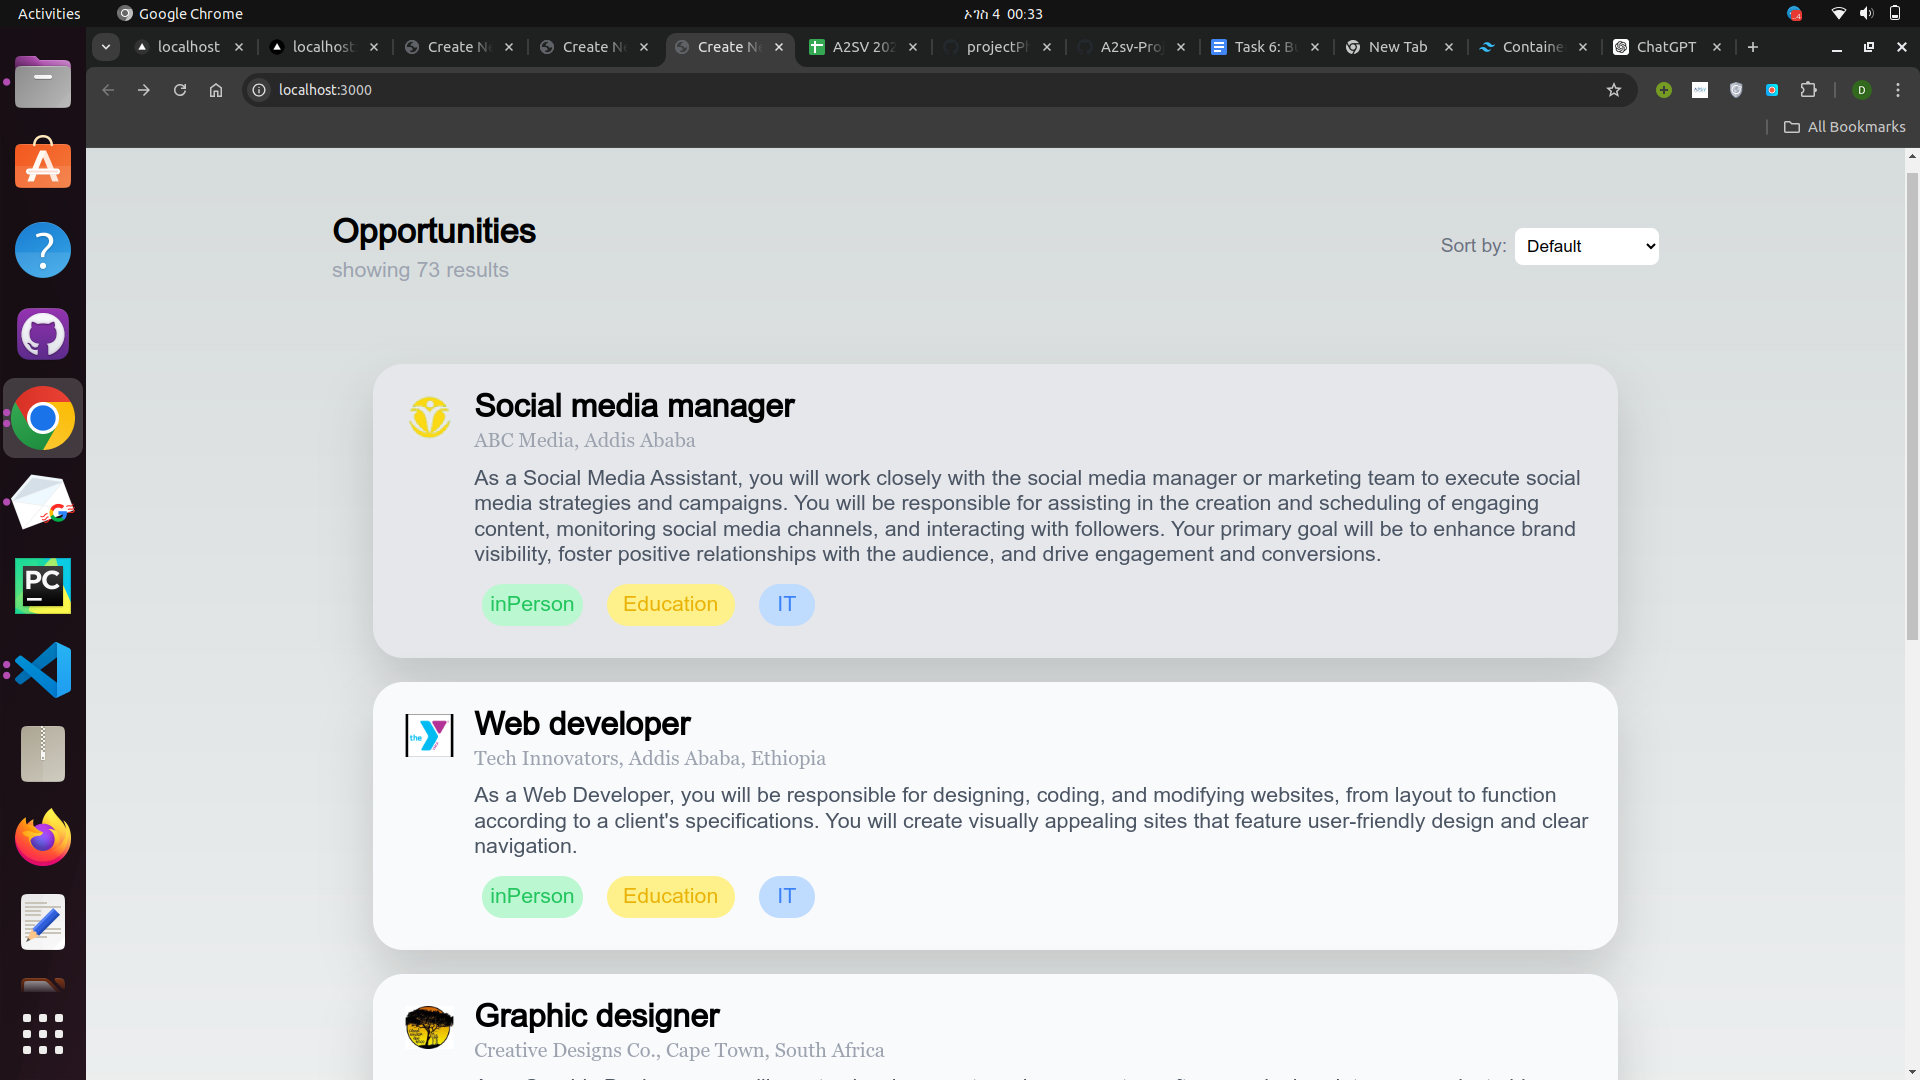
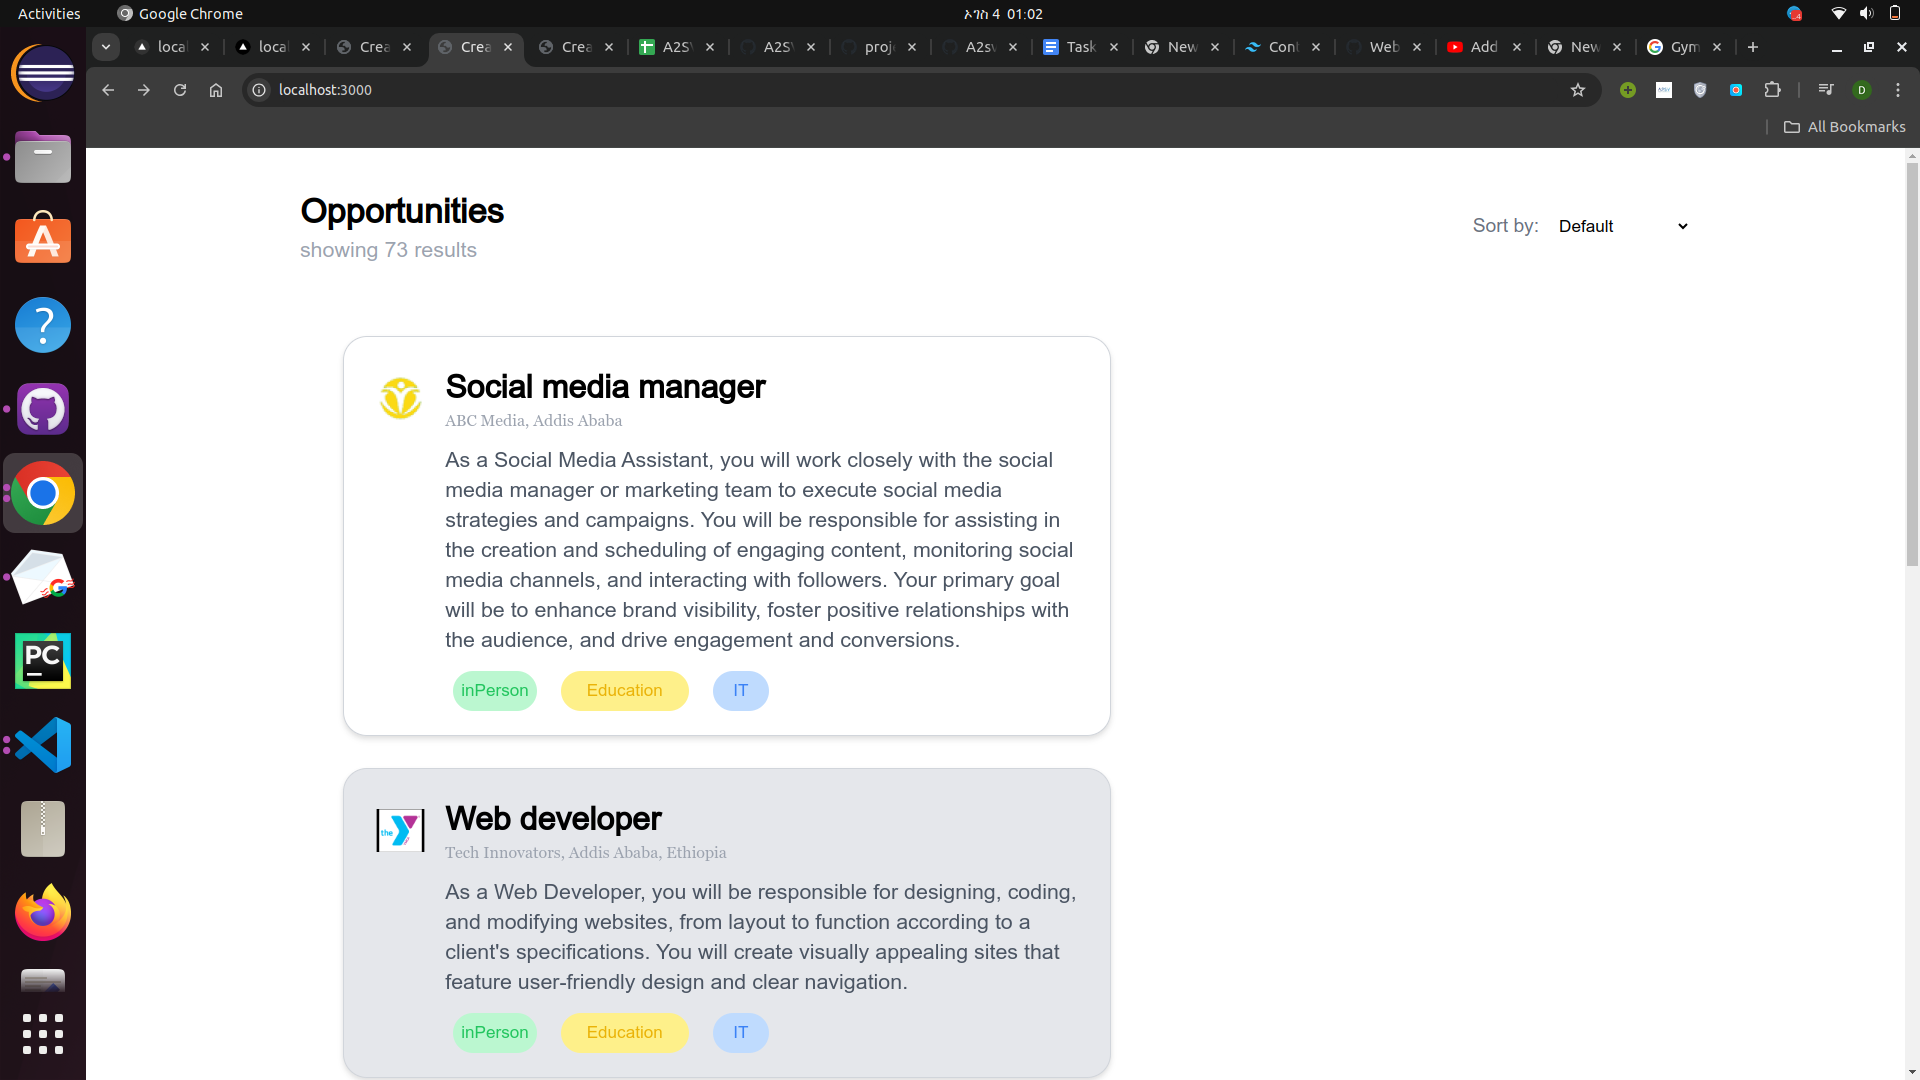
updated the image

diff --git a/my-next-app/app/description/page.tsx b/my-next-app/app/description/page.tsx
@@ -50,9 +50,9 @@ const Description = () => {
             <div className="flex gap-4">
                     <div className="p-6 w-[100%] h-auto grid grid-cols-[3fr_1fr] gap-2  mb-6  text-[18px]  mr-15 ml-115 ">
                         <div className="mt-0 m-5 text-md space-y-6 block">
-                        <h1 className='font-serif ml-0 m-3 font-bold pb-1 bold text-3xl'>Description</h1>
+                        <h1 className='font-serif ml-0 m-3 font-extrabold  pb-1 bold text-3xl'>Description</h1>
                         <p>{user.description}</p>
-                            <h1 className='font-serif ml-0 m-2 font-bold pb-1 bold text-3xl'>Responsibility</h1>
+                            <h1 className='font-serif ml-0 m-2 font-extrabold pb-1 bold text-3xl'>Responsibility</h1>
                             <ul className="space-y-3 list-inside">
                               {user.responsibilities.map((item, index) => (
                                 <li key={index} className="flex items-center">
@@ -83,7 +83,7 @@ const Description = () => {
                         
                         </div>
                         <div className=" w-auto   rounded-md">
-                        <h1 className='font-serif m-2 ml-0 font-bold pb-1  bold text-3xl'> About</h1>
+                        <h1 className='font-serif m-2 ml-0 font-extrabold pb-1  bold text-3xl'> About</h1>
 
                               <div className='flex flex-col gap-[16px]'>
                                 <div className='flex min-w-[142px] min-h-[52px] gap-[16px] '>
@@ -126,7 +126,7 @@ const Description = () => {
                               <hr className="border-gray-400  border-dashed  drop-shadow-lg my-4 w-48"></hr>
                 
                             <div className="mt-3">
-                              <h1 className='font-serif ml-0 m-2 font-bold pb-1 bold text-3xl' >Catagories</h1>
+                              <h1 className='font-serif ml-0 m-2 font-extrabold pb-1 bold text-3xl' >Catagories</h1>
                               <div className="flex">
                               <p className=' m-2 p-1 w-auto text-sm bg-yellow-200 text-yellow-500 rounded-3xl '>{user.about.categories[0]}</p>
                               <p className='m-2 p-1  text-sm w-auto bg-green-200  text-green-500 rounded-3xl'>{user.about.categories[1]}</p>
@@ -136,7 +136,7 @@ const Description = () => {
                         <div className=""> 
                         <h1 className='font-serif m-2  font-bold pb-1 bold text-3xl' >Required Skills</h1>
                           <div className="flex">
-                          {user.about.required_skills.map((item ,index) => (<p className='m-2  p-1 text-sm w-auto h-10 bg-gray-200  text-blue-500 rounded-3xl'>{item}</p>))}
+                          {user.about.required_skills.map((item ,index) => (<p className='m-2  p-2 text-sm w-auto h-10 bg-gray-200  text-blue-500 rounded-3xl'>{item}</p>))}
                           </div>
                         </div>
 

diff --git a/my-next-app/app/Cards.tsx/page.tsx b/my-next-app/app/Cards.tsx/page.tsx
@@ -2,7 +2,7 @@
 import React from 'react'
 import job from "./jobs.json"
 import { useRouter } from 'next/navigation';
-import DropDown from "./dropdown"
+import DropDown from "./Heading"
 
 interface JobDescription {
     title: string;
@@ -33,12 +33,13 @@ const UserPage =  () => {
     return (
         <>
         
-        <div className='m-20 flex justify-center'>
+        <div className='m-10 flex justify-center'>
   <div className="w-[75%]">
     {users.map((user) => (
       <div
         onClick={() => route.push(`/description?id=${user.id}`)}
-        className="p-[24px] min-h-[266px] w- [60%] flex align-middle gap-3 hover:bg-gray-200 leading-[25.6px] mb-6 text-[20px] drop-shadow-2xl justify-between rounded-[30px] bg-slate-50"
+        className="p-[24px] min-h-[266px] flex align-middle gap-3 hover:bg-gray-200  bg-white max-w-3xl  justify-items-center pt-8 pb-4 px-6 my-8
+    rounded-3xl drop-shadow-md border border-gray-300"
       >
         <img className='p-2 w-[66px] h-[59px]' src={user.image} alt="" />
         <div>

diff --git a/my-next-app/app/globals.css b/my-next-app/app/globals.css
@@ -1,33 +1,3 @@
 @tailwind base;
 @tailwind components;
 @tailwind utilities;
-
-:root {
-  --foreground-rgb: 0, 0, 0;
-  --background-start-rgb: 214, 219, 220;
-  --background-end-rgb: 255, 255, 255;
-}
-
-@media (prefers-color-scheme: dark) {
-  :root {
-    --foreground-rgb: 255, 255, 255;
-    --background-start-rgb: 0, 0, 0;
-    --background-end-rgb: 0, 0, 0;
-  }
-}
-
-body {
-  color: rgb(var(--foreground-rgb));
-  background: linear-gradient(
-      to bottom,
-      transparent,
-      rgb(var(--background-end-rgb))
-    )
-    rgb(var(--background-start-rgb));
-}
-
-@layer utilities {
-  .text-balance {
-    text-wrap: balance;
-  }
-}

diff --git a/my-next-app/app/Cards.tsx/Heading.tsx b/my-next-app/app/Cards.tsx/Heading.tsx
@@ -2,7 +2,7 @@ import React from 'react'
 
 const DropDown = () => {
   return (
-    <div className='grid gap-7 items-[left] m-20'>
+    <div className='grid gap-7 items-[left] m-10'>
     <div className='flex items-center justify-center'>
       <div className='flex flex-col md:flex-row justify-between items-center w-full lg:w-4/5'>
         <div className='flex flex-col mb-4 md:mb-0'>

diff --git a/my-next-app/app/page.tsx b/my-next-app/app/page.tsx
@@ -1,7 +1,7 @@
 
 import React from "react";
 import UserPage from "./Cards.tsx/page";
-import DropDown from "./Cards.tsx/dropdown";
+import DropDown from "./Cards.tsx/Heading";
 
 
 export default function Home() {
